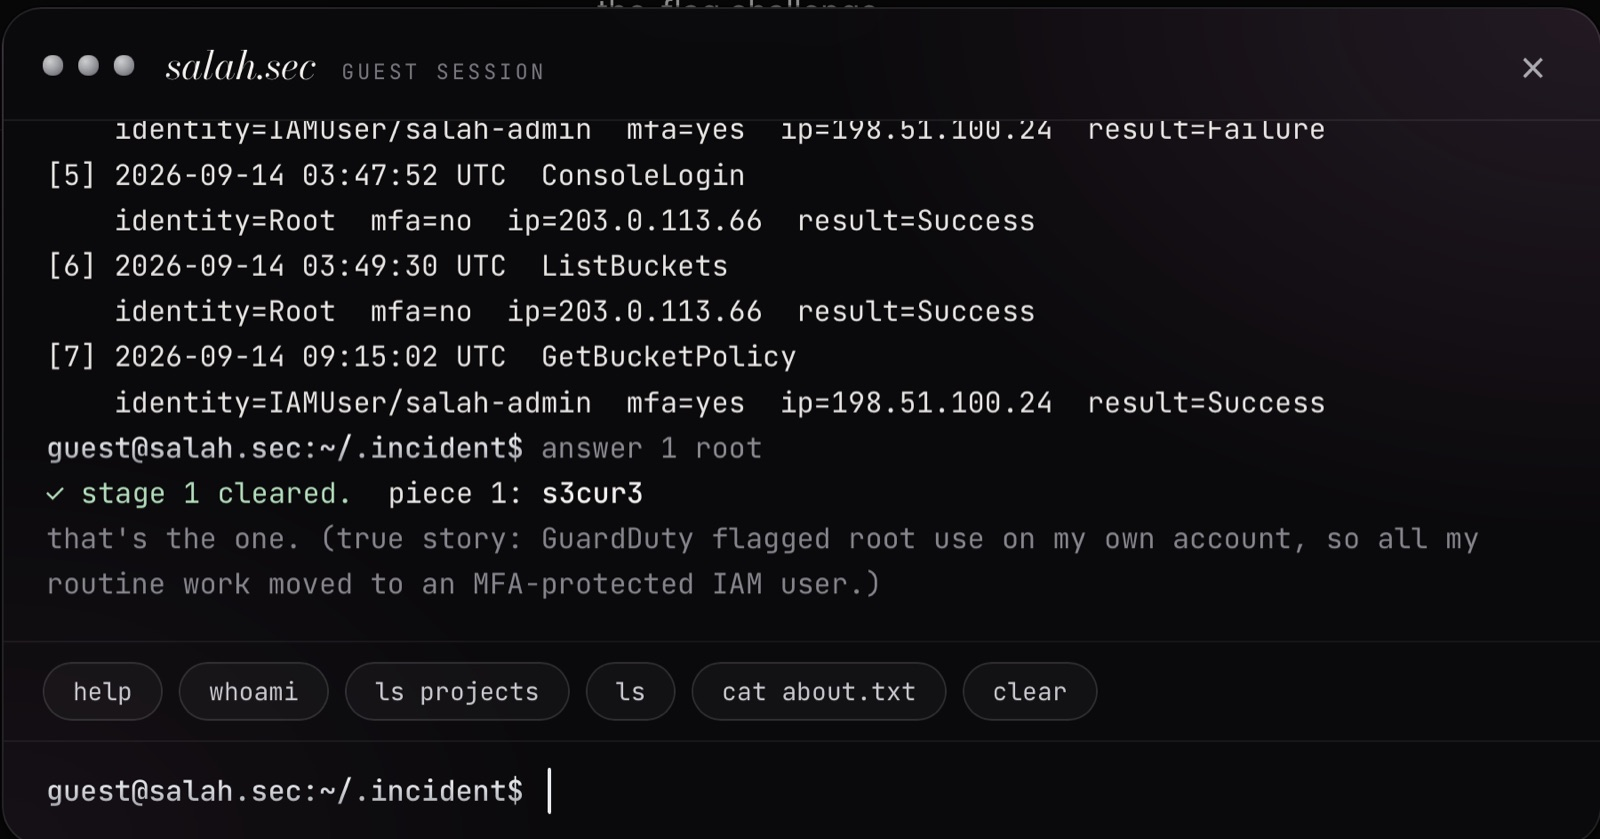
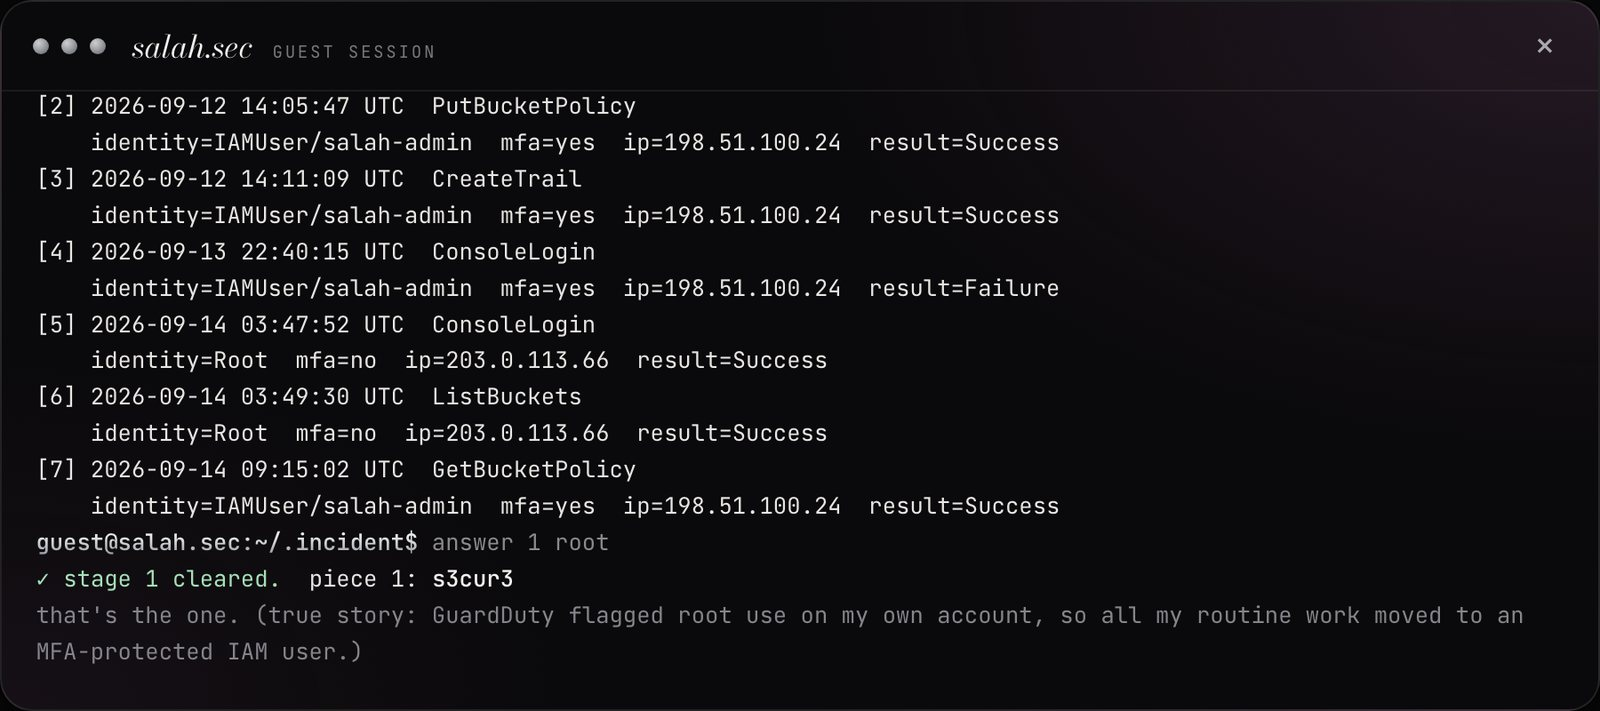
Galleries: clean phone and terminal shots, drop the empty campus map
- Knightro: removed the map with no pins; phone shot cut out cleanly
  (no desktop corners) with rounded edges, as WebP
- Portfolio: new phone shot of the hero (IMG_5160) next to a cleaned
  photo-pile phone shot; the three CTF shots re-rendered from the live
  terminal (no stray text, no cut-off rows); Skills map re-captured fully
  lit and cropped to the card; CTF solved shown full width
- Tall shots get a taller 3:4 card and show in full

diff --git a/portfolio.html b/portfolio.html
@@ -10,7 +10,7 @@
   <link rel="preconnect" href="https://fonts.googleapis.com">
   <link rel="preconnect" href="https://fonts.gstatic.com" crossorigin>
   <link rel="stylesheet" href="https://fonts.googleapis.com/css2?family=Bodoni+Moda:ital,opsz,wght@0,6..96,400..600;1,6..96,400..600&family=Inter:wght@400;500;600&family=JetBrains+Mono:wght@400;500&display=swap">
-  <link rel="stylesheet" href="css/style.css?v=60">
+  <link rel="stylesheet" href="css/style.css?v=61">
   <script>
     (function () { try { var t = localStorage.getItem("theme"); if (t) document.documentElement.dataset.theme = t; } catch (e) {} var m = document.querySelector('meta[name="theme-color"]'); if (m) m.content = document.documentElement.dataset.theme === "light" ? "#f3f1ec" : "#070707"; })();
   </script>
@@ -96,7 +96,7 @@
             <figcaption class="label">The hero: a sea of terminal symbols that wakes behind your cursor</figcaption>
           </figure>
           <figure class="gallery__item">
-            <a href="assets/projects/portfolio/skills-map.jpg"><img src="assets/projects/portfolio/skills-map.jpg" alt="Skills as an architecture map of the real pipelines" width="1600" height="735" loading="lazy" decoding="async"></a>
+            <a href="assets/projects/portfolio/skills-map.jpg?v=2"><img src="assets/projects/portfolio/skills-map.jpg?v=2" alt="Skills as an architecture map of the real pipelines" width="1600" height="678" loading="lazy" decoding="async"></a>
             <figcaption class="label">Skills as an architecture map of the real pipelines</figcaption>
           </figure>
           <figure class="gallery__item">
@@ -104,20 +104,24 @@
             <figcaption class="label">AWS Amplify Hosting: main branch deployed from GitHub</figcaption>
           </figure>
           <figure class="gallery__item">
-            <a href="assets/projects/portfolio/ctf-stage1.jpg"><img src="assets/projects/portfolio/ctf-stage1.jpg" alt="CTF stage 1: finding the root sign-in without MFA in the CloudTrail log" width="1600" height="839" loading="lazy" decoding="async"></a>
+            <a href="assets/projects/portfolio/phone-hero.webp"><img src="assets/projects/portfolio/phone-hero.webp" alt="On a phone: the hero and the bottom nav" width="603" height="1311" loading="lazy" decoding="async"></a>
+            <figcaption class="label">On a phone: the hero and the bottom nav</figcaption>
+          </figure>
+          <figure class="gallery__item">
+            <a href="assets/projects/portfolio/phone-lens.webp"><img src="assets/projects/portfolio/phone-lens.webp" alt="On a phone: the photo pile" width="728" height="1600" loading="lazy" decoding="async"></a>
+            <figcaption class="label">On a phone: the photo pile</figcaption>
+          </figure>
+          <figure class="gallery__item">
+            <a href="assets/projects/portfolio/ctf-stage1.jpg?v=2"><img src="assets/projects/portfolio/ctf-stage1.jpg?v=2" alt="CTF stage 1: finding the root sign-in without MFA in the CloudTrail log" width="1600" height="711" loading="lazy" decoding="async"></a>
             <figcaption class="label">CTF stage 1: finding the root sign-in without MFA in the CloudTrail log</figcaption>
           </figure>
           <figure class="gallery__item">
-            <a href="assets/projects/portfolio/ctf-stage2.jpg"><img src="assets/projects/portfolio/ctf-stage2.jpg" alt="The terminal CTF, stage 2: spotting the over-permissive IAM statement" width="1600" height="841" loading="lazy" decoding="async"></a>
-            <figcaption class="label">The terminal CTF, stage 2: spotting the over-permissive IAM statement</figcaption>
+            <a href="assets/projects/portfolio/ctf-stage2.jpg?v=2"><img src="assets/projects/portfolio/ctf-stage2.jpg?v=2" alt="CTF stage 2: spotting the over-permissive IAM statement" width="1600" height="711" loading="lazy" decoding="async"></a>
+            <figcaption class="label">CTF stage 2: spotting the over-permissive IAM statement</figcaption>
           </figure>
-          <figure class="gallery__item">
-            <a href="assets/projects/portfolio/ctf-solved.jpg"><img src="assets/projects/portfolio/ctf-solved.jpg" alt="CTF solved: flag accepted, incident closed" width="1600" height="838" loading="lazy" decoding="async"></a>
+          <figure class="gallery__item gallery__item--full">
+            <a href="assets/projects/portfolio/ctf-solved.jpg?v=2"><img src="assets/projects/portfolio/ctf-solved.jpg?v=2" alt="CTF solved: flag accepted, incident closed" width="1600" height="711" loading="lazy" decoding="async"></a>
             <figcaption class="label">CTF solved: flag accepted, incident closed</figcaption>
-          </figure>
-          <figure class="gallery__item">
-            <a href="assets/projects/portfolio/phone-lens.jpg"><img src="assets/projects/portfolio/phone-lens.jpg" alt="On a phone: the photo pile and the bottom nav" width="719" height="1600" loading="lazy" decoding="async"></a>
-            <figcaption class="label">On a phone: the photo pile and the bottom nav</figcaption>
           </figure>
           </div>
         </section>

diff --git a/knightro.html b/knightro.html
@@ -10,7 +10,7 @@
   <link rel="preconnect" href="https://fonts.googleapis.com">
   <link rel="preconnect" href="https://fonts.gstatic.com" crossorigin>
   <link rel="stylesheet" href="https://fonts.googleapis.com/css2?family=Bodoni+Moda:ital,opsz,wght@0,6..96,400..600;1,6..96,400..600&family=Inter:wght@400;500;600&family=JetBrains+Mono:wght@400;500&display=swap">
-  <link rel="stylesheet" href="css/style.css?v=60">
+  <link rel="stylesheet" href="css/style.css?v=61">
   <script>
     (function () { try { var t = localStorage.getItem("theme"); if (t) document.documentElement.dataset.theme = t; } catch (e) {} var m = document.querySelector('meta[name="theme-color"]'); if (m) m.content = document.documentElement.dataset.theme === "light" ? "#f3f1ec" : "#070707"; })();
   </script>
@@ -98,16 +98,12 @@
             <figcaption class="label">The live app on desktop: sightings, likely events and a 2x bounty zone</figcaption>
           </figure>
           <figure class="gallery__item">
-            <a href="assets/projects/knightro/live-phone.jpg"><img src="assets/projects/knightro/live-phone.jpg" alt="On a phone at knightro.photo: live status and the 2x bounty timer" width="716" height="1600" loading="lazy" decoding="async"></a>
+            <a href="assets/projects/knightro/live-phone.webp"><img src="assets/projects/knightro/live-phone.webp" alt="On a phone at knightro.photo: live status and the 2x bounty timer" width="728" height="1600" loading="lazy" decoding="async"></a>
             <figcaption class="label">On a phone at knightro.photo: live status and the 2x bounty timer</figcaption>
           </figure>
           <figure class="gallery__item">
             <a href="assets/projects/knightro/menu.jpg"><img src="assets/projects/knightro/menu.jpg" alt="The Knightro HQ menu: campus picker, events, leaderboard, photo reports and UCF sign-in" width="616" height="1090" loading="lazy" decoding="async"></a>
             <figcaption class="label">The Knightro HQ menu: campus picker, events, leaderboard, photo reports and UCF sign-in</figcaption>
-          </figure>
-          <figure class="gallery__item gallery__item--wide">
-            <a href="assets/projects/knightro/map.jpg" target="_blank" rel="noopener"><img src="assets/projects/knightro/map.jpg" alt="The live campus map" width="1600" height="921" loading="lazy" decoding="async"></a>
-            <figcaption class="label">The live campus map</figcaption>
           </figure>
           </div>
         </section>

diff --git a/css/style.css b/css/style.css
@@ -825,8 +825,9 @@ a.work__row:focus-visible { outline-offset: -2px; }
    uniform card: show a readable close-up instead, focused by --focus (x
    position, set per figure); the viewer still shows the whole thing. */
 .gallery__item.is-strip img { object-fit: cover; object-position: var(--focus, 0%) 0; border-radius: 8px; }
-/* Tall phone screenshots: a close-up of the top of the screen (the whole thing is in the viewer). */
-.gallery__item.is-tall img { object-fit: cover; object-position: 50% 0; border-radius: 10px; }
+/* Tall phone screenshots get a taller card and show in full (they sit in pairs). */
+.gallery__item.is-tall a { aspect-ratio: 3 / 4; }
+.gallery__item--full { grid-column: 1 / -1; }
 .gallery__item a:hover { border-color: color-mix(in srgb, var(--text) 28%, transparent); }
 @media (hover: hover) { .gallery__item a:hover img { scale: 1.025; } }
 .gallery__item figcaption {

diff --git a/s3-site.html b/s3-site.html
@@ -10,7 +10,7 @@
   <link rel="preconnect" href="https://fonts.googleapis.com">
   <link rel="preconnect" href="https://fonts.gstatic.com" crossorigin>
   <link rel="stylesheet" href="https://fonts.googleapis.com/css2?family=Bodoni+Moda:ital,opsz,wght@0,6..96,400..600;1,6..96,400..600&family=Inter:wght@400;500;600&family=JetBrains+Mono:wght@400;500&display=swap">
-  <link rel="stylesheet" href="css/style.css?v=60">
+  <link rel="stylesheet" href="css/style.css?v=61">
   <script>
     (function () { try { var t = localStorage.getItem("theme"); if (t) document.documentElement.dataset.theme = t; } catch (e) {} var m = document.querySelector('meta[name="theme-color"]'); if (m) m.content = document.documentElement.dataset.theme === "light" ? "#f3f1ec" : "#070707"; })();
   </script>

diff --git a/index.html b/index.html
@@ -11,7 +11,7 @@
   <link rel="preconnect" href="https://fonts.gstatic.com" crossorigin>
   <link rel="stylesheet" href="https://fonts.googleapis.com/css2?family=Bodoni+Moda:ital,opsz,wght@0,6..96,400..600;1,6..96,400..600&family=Inter:wght@400;500;600&family=JetBrains+Mono:wght@400;500&display=swap">
   <!-- ?v= forces browsers to fetch the new file instead of a cached old one -->
-  <link rel="stylesheet" href="css/style.css?v=60">
+  <link rel="stylesheet" href="css/style.css?v=61">
   <script>
     // Apply saved theme before paint to avoid a flash.
     (function () {
